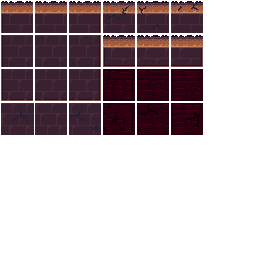
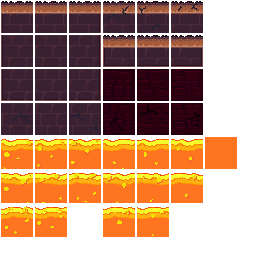
lava animation

Changed region(s): [[0.0, 0.4062, 0.9375, 0.9375]]

diff --git a/public_html/maps/tower/tower.tsx b/public_html/maps/tower/tower.tsx
@@ -1,4 +1,28 @@
 <?xml version="1.0" encoding="UTF-8"?>
 <tileset version="1.4" tiledversion="1.4.2" name="tower" tilewidth="32" tileheight="32" spacing="2" margin="1" tilecount="49" columns="7">
  <image source="tower.png" width="256" height="256"/>
+ <tile id="44">
+  <animation>
+   <frame tileid="28" duration="100"/>
+   <frame tileid="29" duration="100"/>
+   <frame tileid="30" duration="100"/>
+   <frame tileid="35" duration="100"/>
+   <frame tileid="36" duration="100"/>
+   <frame tileid="37" duration="100"/>
+   <frame tileid="42" duration="100"/>
+   <frame tileid="43" duration="100"/>
+  </animation>
+ </tile>
+ <tile id="47">
+  <animation>
+   <frame tileid="31" duration="100"/>
+   <frame tileid="32" duration="100"/>
+   <frame tileid="33" duration="100"/>
+   <frame tileid="38" duration="100"/>
+   <frame tileid="39" duration="100"/>
+   <frame tileid="40" duration="100"/>
+   <frame tileid="45" duration="100"/>
+   <frame tileid="46" duration="100"/>
+  </animation>
+ </tile>
 </tileset>
